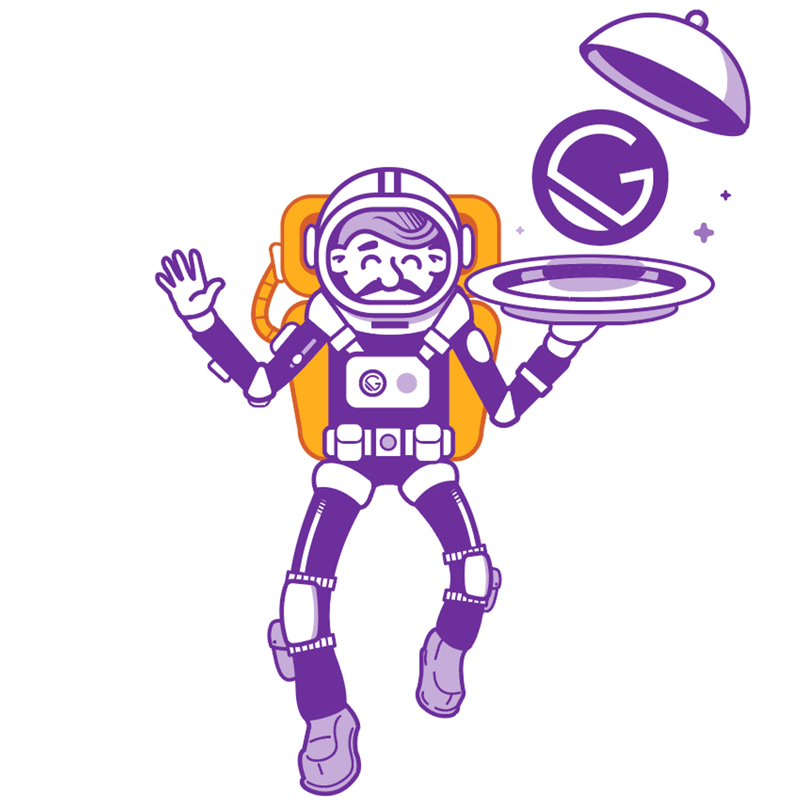
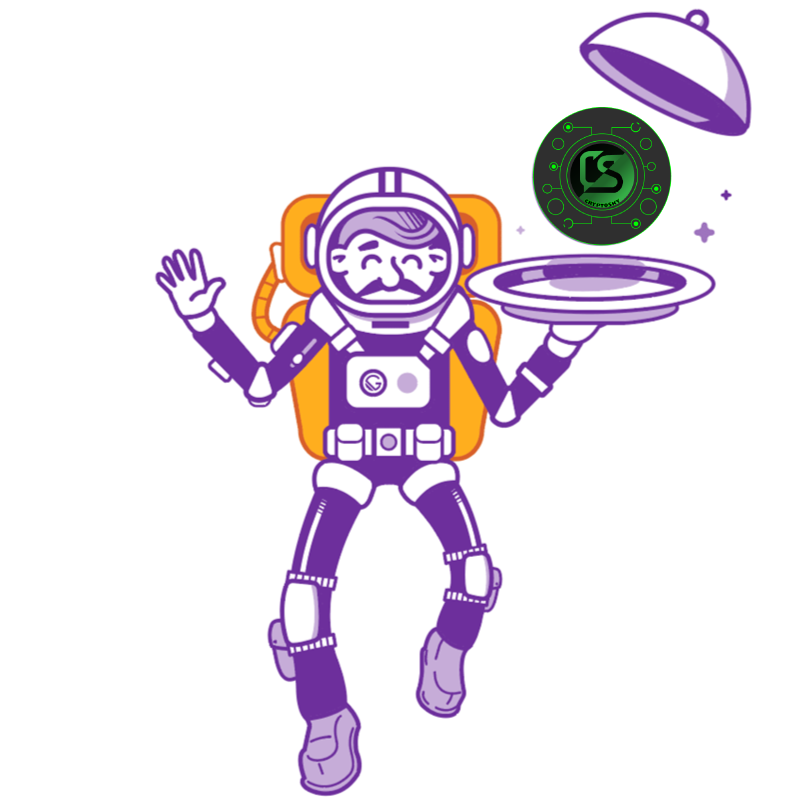
test function()

diff --git a/src/components/layout.js b/src/components/layout.js
@@ -41,7 +41,7 @@ const Layout = ({ children }) => {
         >
           © 2018 - {new Date().getFullYear()}, Built with
           {` `}
-          <a href="https://www.cryptoskyplatform.org">CryptoSky Platform</a>
+          <a href="https://www.cryptoskyplatform.org" title="CryptoSky Platform">CS Team</a>
         </footer>
       </div>
     </>

diff --git a/src/pages/index.js b/src/pages/index.js
@@ -8,9 +8,7 @@ import Seo from "../components/seo"
 const IndexPage = () => (
   <Layout>
     <Seo title="Home" />
-    <h1>Hi people</h1>
-    <p>Welcome to your new Gatsby site.</p>
-    <p>Now go build something great.</p>
+    <h1>Hello, CryptoSky</h1>
     <StaticImage
       src="../images/gatsby-astronaut.png"
       width={300}
